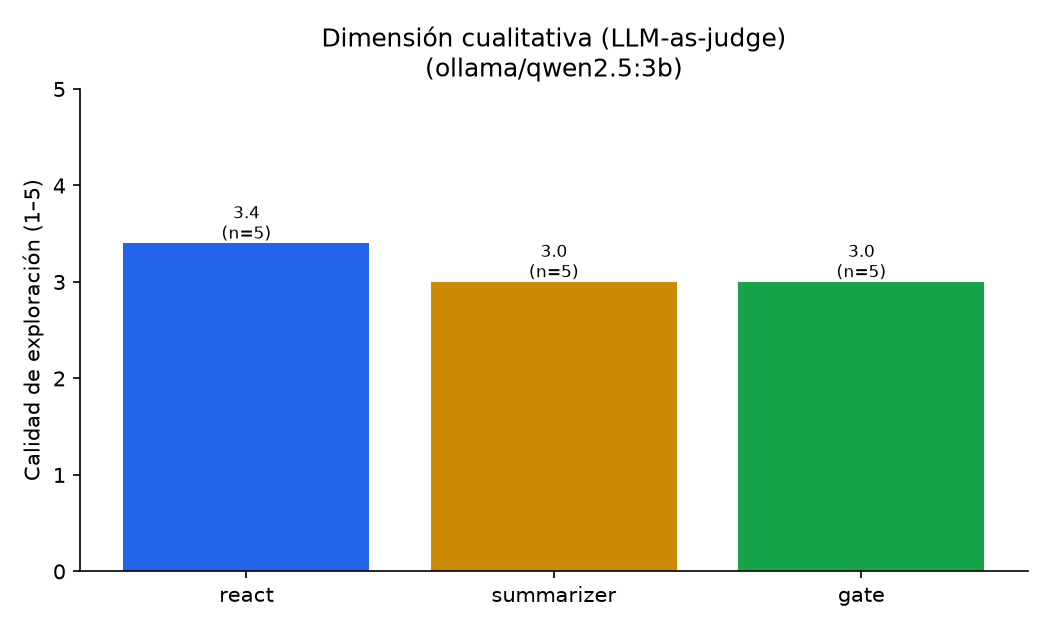
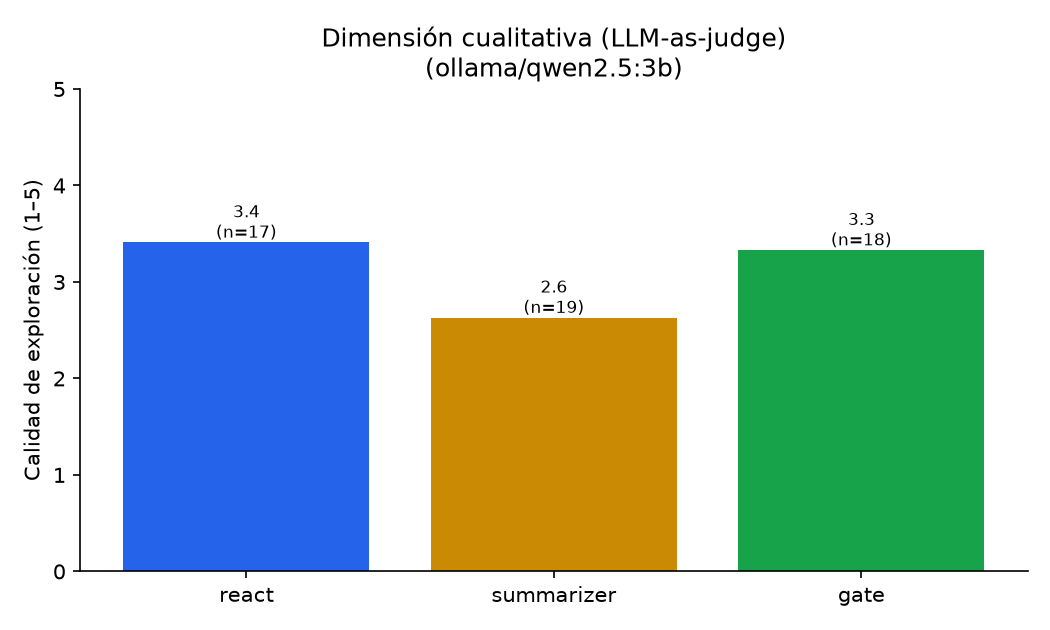
docs(m3): §3.4 judge a repeats-3 (summarizer 2.63 < react 3.41: peor trayectoria)
- Judge sobre 72 casos: react 3.41, gate 3.33, summarizer 2.63 (17-19/24
  puntuados). Hallazgo: el summarizer produce trayectorias de MENOR calidad
  (loopea más), no solo más caras.
- Gráficos regenerados desde repeats-3 (incluye judge). Quito duplicado del
  gráfico del judge.

Changed region(s): [[0.3962, 0.3921, 0.6705, 0.5127], [0.701, 0.3619, 0.9448, 0.4524], [0.1829, 0.3317, 0.2743, 0.3921]]

diff --git a/INFORME_M3.md b/INFORME_M3.md
@@ -196,22 +196,25 @@ corregirla —otro costo del resumen, además de la latencia.
 
 ### 3.4 Resultados cualitativos (LLM-as-judge)
 
-![Calidad de exploración por configuración](docs/m3_judge.png)
-
 Calidad de exploración (1–5), sobre las trazas reales:
 
 | Config | Casos puntuados | Promedio |
 |---|---:|---:|
-| `react` | 5/8 | **3.4**† |
-| `summarizer` | 5/8 | 3.0† |
-| `gate` | 5/8 | 3.0† |
+| `react` | 17/24 | **3.41**† |
+| `gate` | 18/24 | 3.33† |
+| `summarizer` | 19/24 | **2.63**† |
 
-Los puntajes ~3 reflejan trazas que **empiezan metódicas** (look → examine →
-take) pero **se abandonan** en prosa. **Dato importante:** el judge solo pudo
-puntuar **5/8** por config —en los otros 3, `qwen2.5:3b` no produjo salida
-estructurada válida. Es decir, **en un modelo chico hasta el judge es poco
-confiable**; por eso la meta-eval con kappa (§2.2) es la que valida sus números,
-y esperamos puntuar los 8/8 en Bedrock.
+![Calidad de exploración por configuración](docs/m3_judge.png)
+
+Hallazgo: el **`summarizer` produce trayectorias de menor calidad** (2.63 vs.
+3.41 de `react`), consistente con que loopea más (§3.3) —el resumen no solo
+cuesta más tiempo/tokens, sino que **empeora la trayectoria**. `react` y `gate`
+quedan parejos (~3.4): el gate no degrada la exploración.
+
+**Dato importante:** el judge solo puntuó **17–19/24** —en el resto,
+`qwen2.5:3b` no produjo salida estructurada válida. Es decir, **en un modelo
+chico hasta el judge es poco confiable**; por eso la meta-eval con kappa (§2.2)
+es la que valida sus números, y esperamos cobertura completa en Bedrock.
 
 ### 3.5 Comparación cross-modelo / proveedor
 
